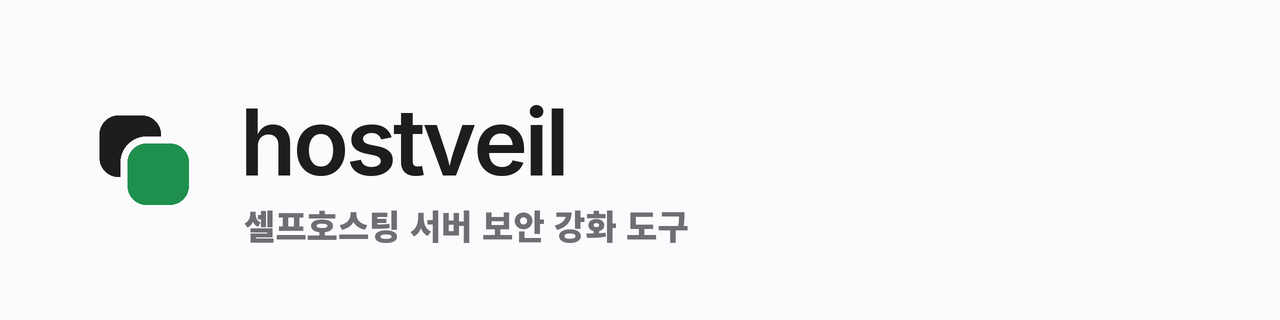
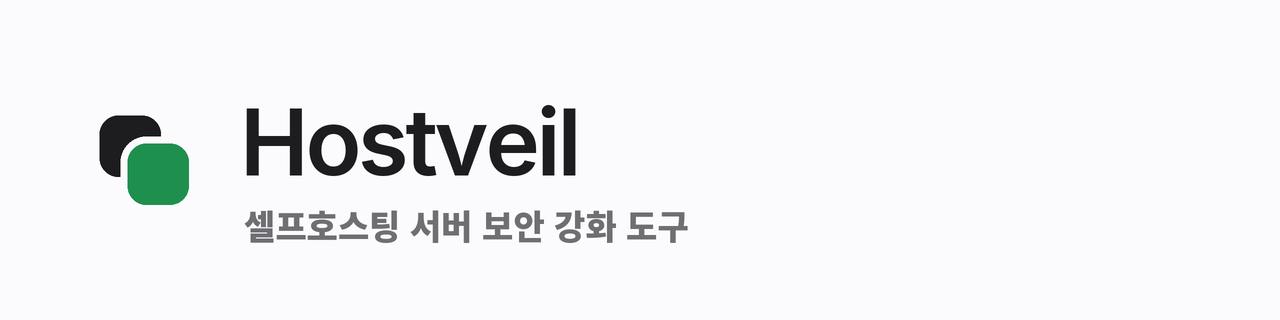
fix(site): write Hostveil with a capital H everywhere it names the product
The website header lowercased the name with CSS, and the README banners
and the social card drew "hostveil". Prose in the issue templates, the
package description, the installer, the demo and the scripts did the same.

Commands, the binary, file names, the `hostveil` theme ID and marker strings
keep their lowercase.

Changed region(s): [[0.1875, 0.3125, 0.4688, 0.5625]]

diff --git a/site/styles.css b/site/styles.css
@@ -173,10 +173,6 @@ pre,
   font-weight: 600;
   letter-spacing: -0.02em;
   font-size: 1.05rem;
-  /* The wordmark is lowercase, as it is in the banners and the social card.
-     The markup keeps "Hostveil" so a screen reader and a copy-paste get the
-     name as it is written in prose. */
-  text-transform: lowercase;
 }
 
 /* The product's mark, not a second one drawn here in CSS.

diff --git a/scripts/measure/report.py b/scripts/measure/report.py
@@ -84,7 +84,7 @@ def rollback_verdict(work):
 
     Three tables: before the fixes, after them, and after the rollback. The
     before table is the authority: it was taken off the live filesystem
-    before hostveil wrote anything, which is the only reading a checkpoint
+    before Hostveil wrote anything, which is the only reading a checkpoint
     cannot influence.
 
     A path that only appears after the fixes ran is a file a fix created.
@@ -258,7 +258,7 @@ def main():
     phases = {}
     for phase in PHASE_ORDER:
         # Only the phases that ran. A control run has two of them and
-        # a hostveil run has five, and reading a fixed list would put an
+        # a Hostveil run has five, and reading a fixed list would put an
         # {"error": "No such file"} object under every phase the other kind of
         # run does not have; a report that looks like five failed
         # measurements.

diff --git a/scripts/social-preview.py b/scripts/social-preview.py
@@ -142,7 +142,7 @@ def social_preview():
     m = 84
     mark(d, PAD * s, 112 * s, m * s, p["bone"], p["safe"], p["bg"])
     word = ImageFont.truetype(SANS, 84 * s)
-    tracked(d, ((PAD + m + 26) * s, 108 * s), "hostveil", word, p["text"], -84 * s * 0.035)
+    tracked(d, ((PAD + m + 26) * s, 108 * s), "Hostveil", word, p["text"], -84 * s * 0.035)
 
     tag = ImageFont.truetype(SANS, 54 * s)
     y = 250
@@ -170,7 +170,7 @@ def banner(p, name, slogan, tag_font):
 
     word = ImageFont.truetype(SANS, 92 * s)
     x = (PAD + m + 40) * s
-    tracked(d, (x, 86 * s), "hostveil", word, p["text"], -92 * s * 0.035)
+    tracked(d, (x, 86 * s), "Hostveil", word, p["text"], -92 * s * 0.035)
     tag = ImageFont.truetype(tag_font, 34 * s)
     d.text((x + 4 * s, 200 * s), slogan, font=tag, fill=p["muted"])
     save(img, name)

diff --git a/internal/check/ports/ports.go b/internal/check/ports/ports.go
@@ -80,7 +80,7 @@ func (c *Checker) Check(ctx context.Context, env platform.Env) ([]model.Finding,
 
 	// Read once: whether the running firewall already refuses a port
 	// decides whether a datastore listening on it is reachable at all, and
-	// whether hostveil can close it with a rule. ufw or firewalld: reading
+	// whether Hostveil can close it with a rule. ufw or firewalld: reading
 	// only ufw reported ports a Fedora host's firewalld refused as reachable.
 	shield := firewall.ReadShield(ctx, env.Runner)
 

diff --git a/scripts/measure/check.py b/scripts/measure/check.py
@@ -26,7 +26,7 @@ A control run has neither promise to make about rollback, because hostveil
 changed nothing to roll back. It keeps exactly one, and it is the sharper of
 the two: the score has to move when the host is hardened by somebody else's
 standard. A score that only responds to hostveil's own fixes is measuring
-hostveil alone, and that is the failure the control group exists to
+Hostveil alone, and that is the failure the control group exists to
 detect.
 
 Usage: check.py <measurement.json>

diff --git a/internal/selfupdate/notify.go b/internal/selfupdate/notify.go
@@ -41,7 +41,7 @@ type Cache struct {
 // cache and not an error: this is a convenience, and a scan must never fail
 // because of it.
 func LoadCache(dir string) Cache {
-	data, err := os.ReadFile(filepath.Join(dir, cacheName)) //nolint:gosec // a path hostveil owns
+	data, err := os.ReadFile(filepath.Join(dir, cacheName)) //nolint:gosec // a path Hostveil owns
 	if err != nil {
 		return Cache{}
 	}

diff --git a/internal/compose/project.go b/internal/compose/project.go
@@ -64,7 +64,7 @@ type Service struct {
 	Labels      map[string]string `yaml:"-"`
 }
 
-// Deploy carries the resource limits hostveil checks for.
+// Deploy carries the resource limits Hostveil checks for.
 type Deploy struct {
 	Resources struct {
 		Limits struct {

diff --git a/demo/README.md b/demo/README.md
@@ -73,8 +73,8 @@ the `run.sh` helper, and shut it down when you're done:
 
 ```bash
 cd demo
-./run.sh up        # boot the VM + rebuild hostveil + start the stacks (first run downloads the box + images)
-./run.sh build     # re-sync the repo and rebuild hostveil in the VM (after editing code)
+./run.sh up        # boot the VM + rebuild Hostveil + start the stacks (first run downloads the box + images)
+./run.sh build     # re-sync the repo and rebuild Hostveil in the VM (after editing code)
 ./run.sh scan      # scored report across all domains
 ./run.sh web       # dashboard at http://localhost:8787 (Ctrl-C to stop)
 ./run.sh shell     # a shell on the demo server, then e.g. `hostveil`

diff --git a/scripts/forensics/README.md b/scripts/forensics/README.md
@@ -4,7 +4,7 @@ Measures the forensic-readiness domain (`forensic.*`) and `hostveil triage`
 against tools that already exist, on a throwaway Ubuntu 24.04 web server.
 
 ```bash
-./run.sh up      # cross-compile hostveil, boot + provision the VM, snapshot "clean"
+./run.sh up      # cross-compile Hostveil, boot + provision the VM, snapshot "clean"
 ./run.sh e1      # experiment 1: detection, false positives, time, footprint
 ./run.sh e2      # experiment 2: what a stock vs. a readied host can still answer after a reboot
 ./run.sh score   # results/summary.json and results/summary.md

diff --git a/docs/DEVELOPMENT.md b/docs/DEVELOPMENT.md
@@ -50,7 +50,7 @@ internal/
   clirender/         the CLI's report rendering
   ui/{theme,tui,web}/  thin UIs over the engine, and the one palette registry
 demo/                the reproducible vulnerable-server VM (Vagrant)
-scripts/measure/     the harness that measures hostveil with other tools
+scripts/measure/     the harness that measures Hostveil with other tools
 site/                the marketing site (static, generated) see below)
 docs/                these docs, and docs/measurements/: committed results
 ```
